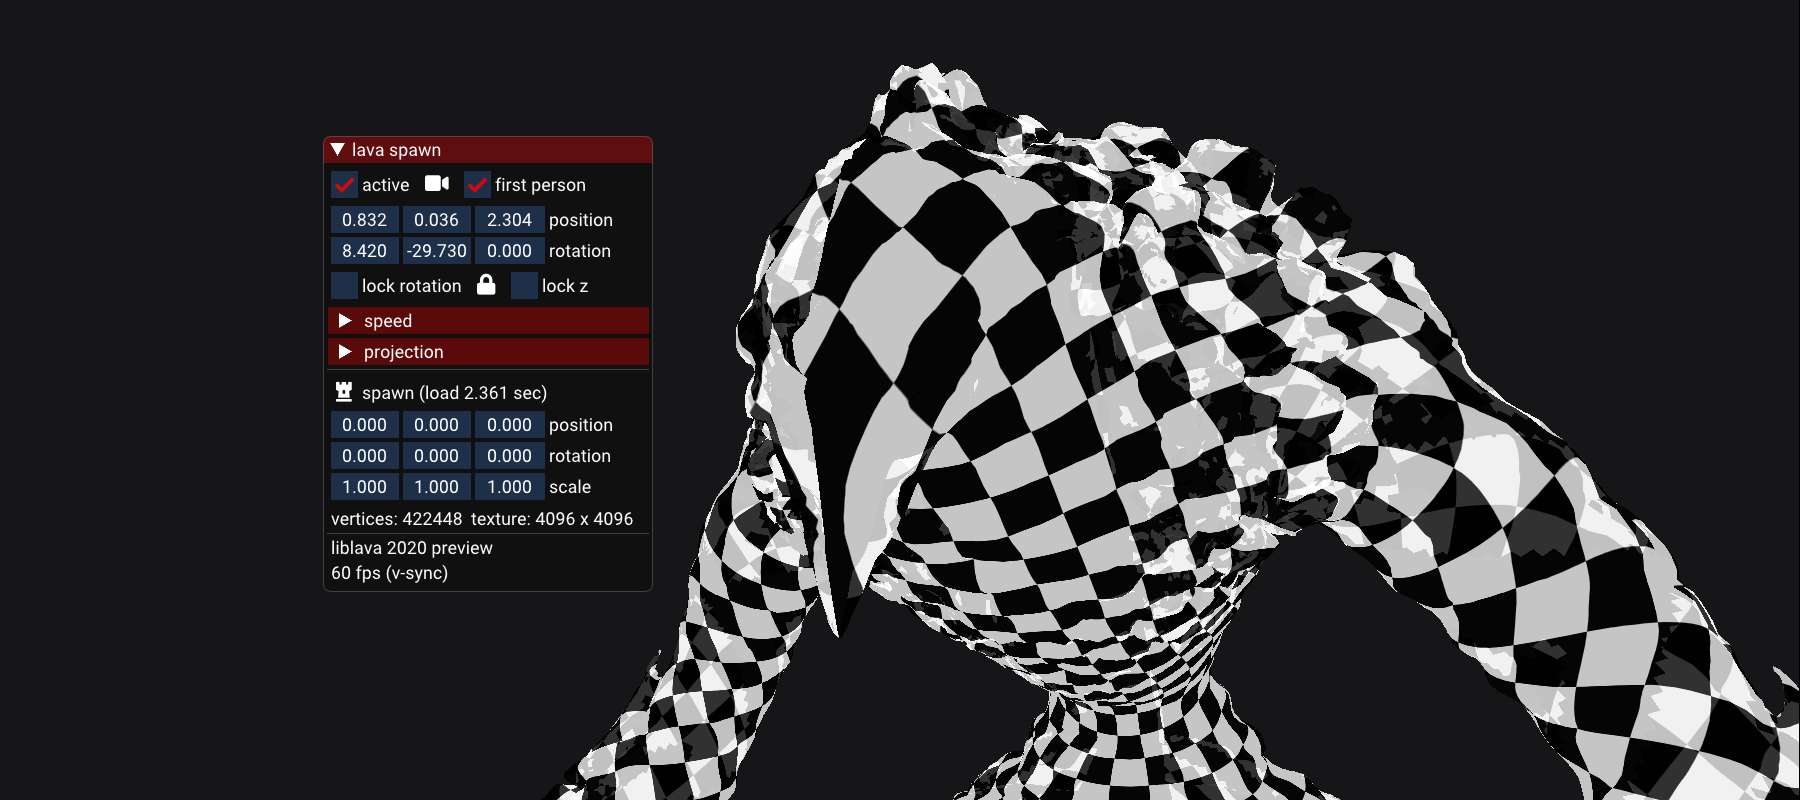
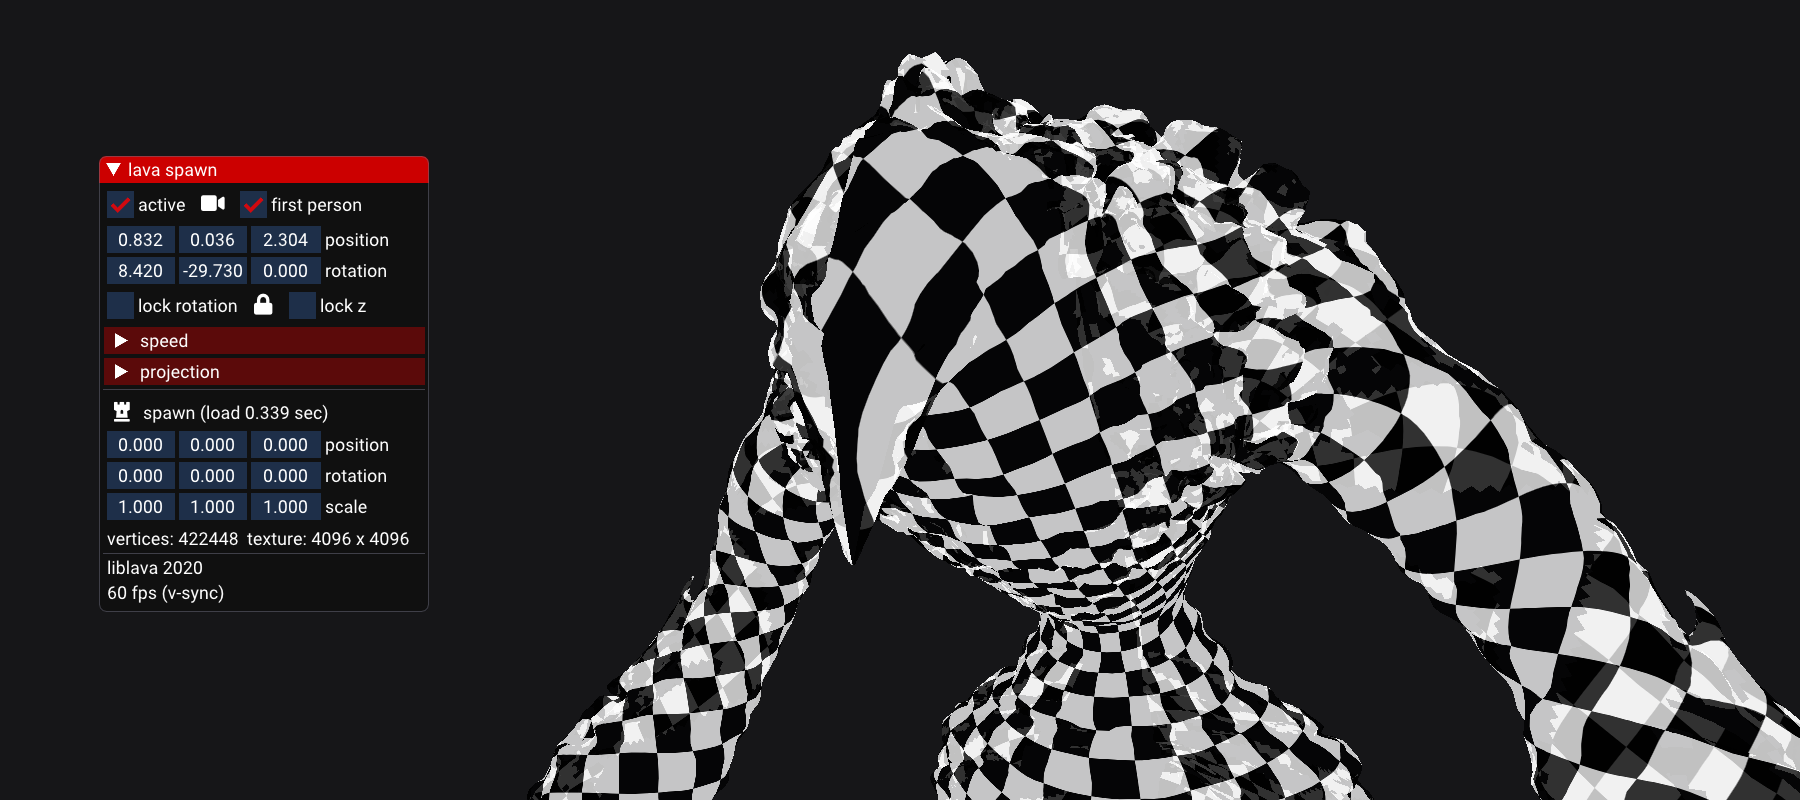
2020

diff --git a/liblava/core/version.hpp b/liblava/core/version.hpp
@@ -27,8 +27,8 @@ namespace lava {
     struct version {
         i32 year = 2020;
         i32 release = 0;
-        version_stage stage = version_stage::preview;
-        i32 rev = 2;
+        version_stage stage = version_stage::release;
+        i32 rev = 0;
     };
 
     constexpr version const _version = {};

diff --git a/README.md b/README.md
@@ -36,7 +36,7 @@
 
 <br />
 
-##### ⬇ Download latest **<a href="https://github.com/liblava/liblava-demo/releases">demo</a>** (Feb. 20, 2020)
+##### ⬇ Download latest **<a href="https://github.com/liblava/liblava-demo/releases">demo</a>** (December 20, 2020)
 
 <a href="https://github.com/liblava/liblava-demo/#readme"><img src="res/demo.png"></a>
 

diff --git a/DOCS.md b/DOCS.md
@@ -493,7 +493,7 @@ cmake --build . --target install
 First find the package in your *CMakeLists.txt*
 
 ```cmake
-find_package(lava 0.5.4 REQUIRED)
+find_package(lava 0.5.5 REQUIRED)
 
 ...
 
